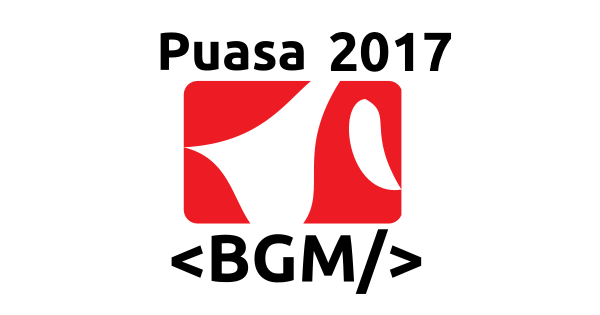
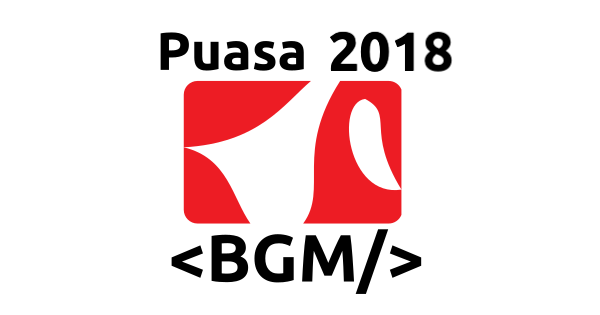
Update image assets

Changed region(s): [[0.57, 0.0857, 0.75, 0.2286]]

diff --git a/index.htm b/index.htm
@@ -16,6 +16,28 @@
 		<link rel="apple-touch-icon"                 href="ico/apple-touch-icon-57-precomposed.png">
 		<link rel="shortcut icon"                    href="ico/favicon.png">
 
+
+		<link rel="apple-touch-icon-precomposed" sizes="57x57" href="ico/apple-touch-icon-57x57.png" />
+		<link rel="apple-touch-icon-precomposed" sizes="114x114" href="ico/apple-touch-icon-114x114.png" />
+		<link rel="apple-touch-icon-precomposed" sizes="72x72" href="ico/apple-touch-icon-72x72.png" />
+		<link rel="apple-touch-icon-precomposed" sizes="144x144" href="ico/apple-touch-icon-144x144.png" />
+		<link rel="apple-touch-icon-precomposed" sizes="60x60" href="ico/apple-touch-icon-60x60.png" />
+		<link rel="apple-touch-icon-precomposed" sizes="120x120" href="ico/apple-touch-icon-120x120.png" />
+		<link rel="apple-touch-icon-precomposed" sizes="76x76" href="ico/apple-touch-icon-76x76.png" />
+		<link rel="apple-touch-icon-precomposed" sizes="152x152" href="ico/apple-touch-icon-152x152.png" />
+		<link rel="icon" type="image/png" href="ico/favicon-196x196.png" sizes="196x196" />
+		<link rel="icon" type="image/png" href="ico/favicon-96x96.png" sizes="96x96" />
+		<link rel="icon" type="image/png" href="ico/favicon-32x32.png" sizes="32x32" />
+		<link rel="icon" type="image/png" href="ico/favicon-16x16.png" sizes="16x16" />
+		<link rel="icon" type="image/png" href="ico/favicon-128.png" sizes="128x128" />
+		<meta name="application-name" content="Ramadhan Buffets 2018"/>
+		<meta name="msapplication-TileColor" content="#FFFFFF" />
+		<meta name="msapplication-TileImage" content="ico/mstile-144x144.png" />
+		<meta name="msapplication-square70x70logo" content="ico/mstile-70x70.png" />
+		<meta name="msapplication-square150x150logo" content="ico/mstile-150x150.png" />
+		<meta name="msapplication-wide310x150logo" content="ico/mstile-310x150.png" />
+		<meta name="msapplication-square310x310logo" content="ico/mstile-310x310.png" />
+
 		<meta property="og:title" content="Ramadhan Buffets 2018">
 		<meta property="og:description" content="A searchable listing of Ramadhan Buffets in Brunei for 2018">
 		<meta property="og:image" content="http://puasa.bruneigeekmeet.com/ico/ogimage.png">
